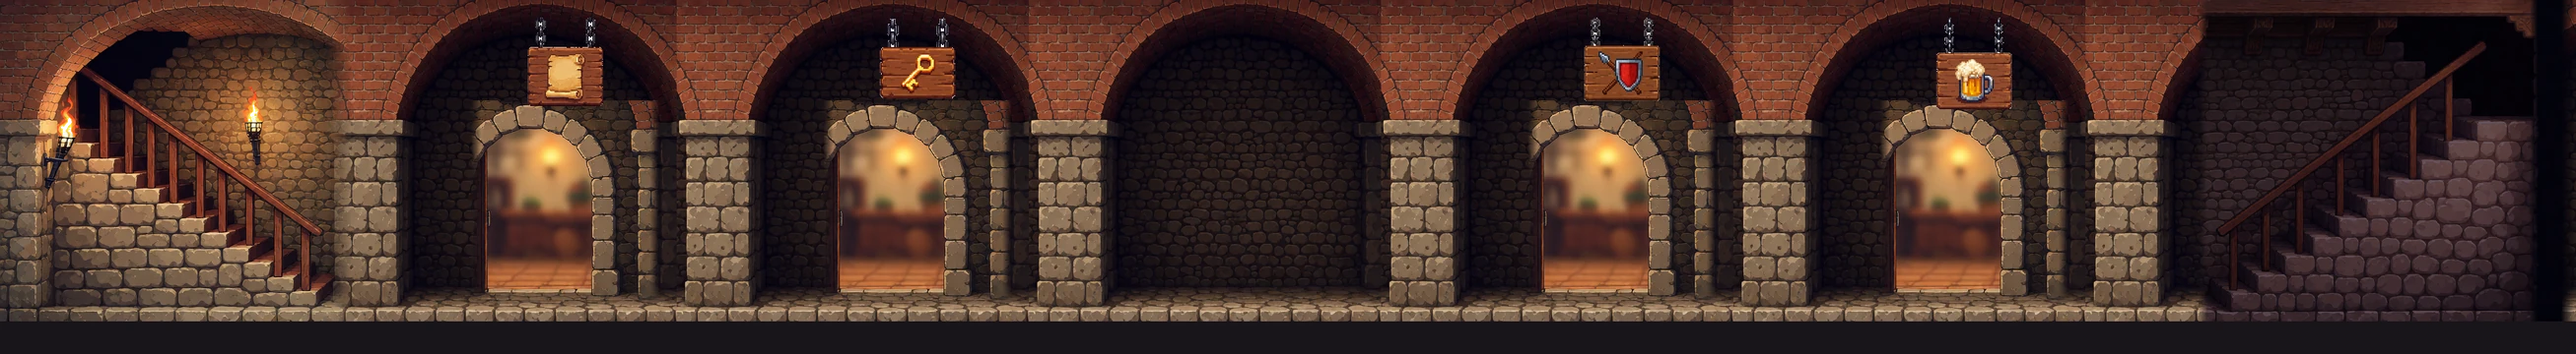
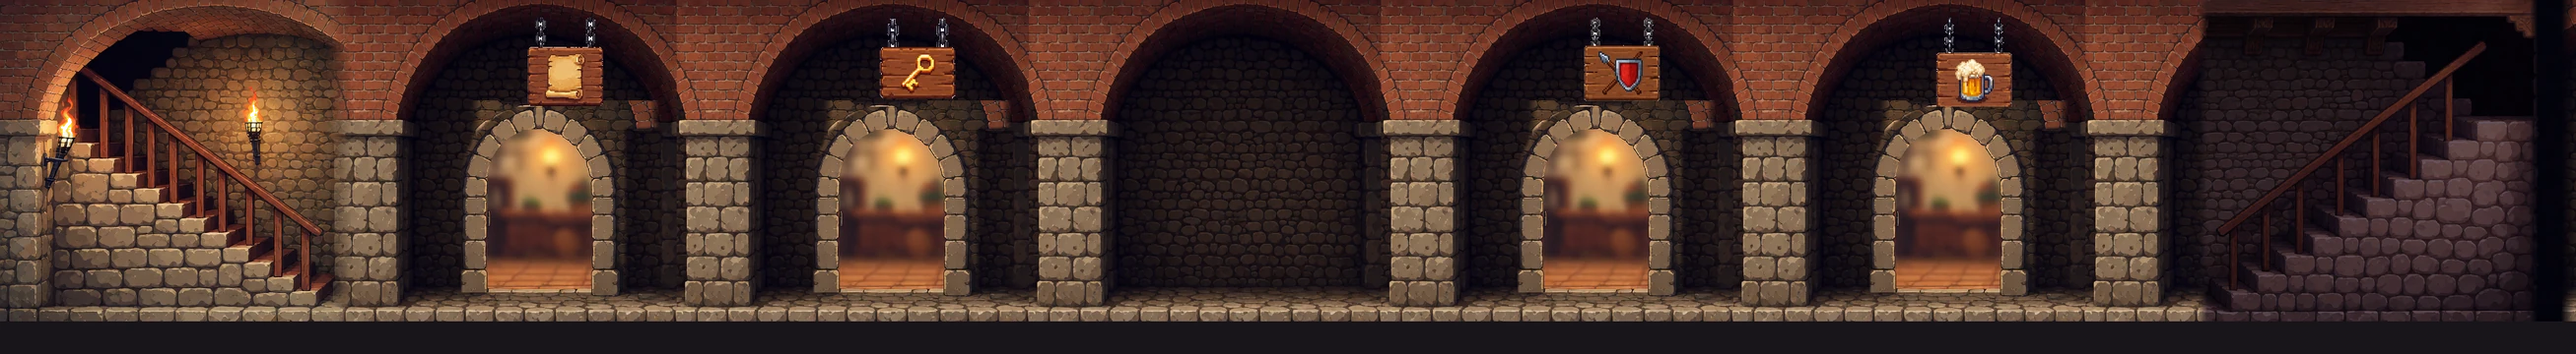
Night Watch: Sogni-painted boarded archway; cellar doorways get both jambs
Claude-Session: https://claude.ai/code/session_01JTmPYBVW2aVCQqTmNfy428

diff --git a/game/js/watch-art-castle.js b/game/js/watch-art-castle.js
@@ -61,10 +61,10 @@ window.WATCH_ART_CASTLE = {
      "block": {
       "img": "assets/img/watch/floors/stair-block-down.webp",
       "box": [
-       60,
-       179,
-       149,
-       304
+       34,
+       227,
+       184,
+       333
       ]
      }
     },
@@ -112,10 +112,10 @@ window.WATCH_ART_CASTLE = {
      "block": {
       "img": "assets/img/watch/floors/stair-block-down.webp",
       "box": [
-       2454,
-       179,
-       2555,
-       304
+       2429,
+       227,
+       2579,
+       333
       ]
      }
     }
@@ -280,10 +280,10 @@ window.WATCH_ART_CASTLE = {
      "block": {
       "img": "assets/img/watch/floors/stair-block-down.webp",
       "box": [
-       60,
-       179,
-       149,
-       304
+       34,
+       227,
+       184,
+       333
       ]
      }
     },
@@ -314,10 +314,10 @@ window.WATCH_ART_CASTLE = {
      "block": {
       "img": "assets/img/watch/floors/stair-block-down.webp",
       "box": [
-       2454,
-       179,
-       2555,
-       304
+       2429,
+       227,
+       2579,
+       333
       ]
      }
     },
@@ -404,10 +404,10 @@ window.WATCH_ART_CASTLE = {
      "block": {
       "img": "assets/img/watch/floors/stair-block-down.webp",
       "box": [
-       96,
-       130,
-       237,
-       304
+       61,
+       196,
+       271,
+       345
       ]
      }
     },
@@ -421,10 +421,10 @@ window.WATCH_ART_CASTLE = {
      "block": {
       "img": "assets/img/watch/floors/stair-block-down.webp",
       "box": [
-       2387,
-       130,
-       2528,
-       304
+       2352,
+       196,
+       2562,
+       345
       ]
      }
     }

diff --git a/game/tools/watch_art/castle/export_castle.py b/game/tools/watch_art/castle/export_castle.py
@@ -43,20 +43,24 @@ ROOM_FLOOR = {'cellars': ['archive', 'strongroom', 'barracks', 'tavern'], 'upper
 BAR = json.load(open(f'{src}/barricades/barricades.json'))
 def up(f, sid, span, use): return (span, 'up', BAR[f'{f}/{sid}'], use, f'{f}-{sid}')
 def dn(span, box, use): return (span, 'down', box, use, None)
-GL, GR = dn([60, 285], [94, 281, 233, 476], 163), dn([3811, 4036], [3845, 281, 4003, 476], 3924)
+# down: the boarded-up archway (block_down.py) placed around the arch centre cx at scale s (towers' archways are 1.4x)
+def abox(cx, s=1): return [round(cx - 118 * s), round(476 - 121 * s), round(cx + 117 * s), round(476 + 46 * s)]
+GL, GR = dn([60, 285], abox(172), 163), dn([3811, 4036], abox(3923), 3924)
 STAIRS = {
  'cellars': {'stair-left': up('cellars', 'stair-left', [60, 520], 470), 'east-cellar-stair': up('cellars', 'east-cellar-stair', [3496, 4036], 3626)},
  'ground':  {'stair-left': GL, 'west-mid-stair': up('ground', 'west-mid-stair', [60, 560], 480),
              'stair-right': up('ground', 'stair-right', [3420, 4030], 3500), 'east-cellar-stair': GR},
  'upper':   {'west-mid-stair': GL, 'back-stair': up('upper', 'back-stair', [60, 600], 470),
              'stair-right': GR, 'east-tower-stair': up('upper', 'east-tower-stair', [3496, 4036], 3626)},
- 'towers':  {'back-stair': dn([103, 418], [150, 204, 371, 476], 260), 'east-tower-stair': dn([3693, 4008], [3740, 204, 3961, 476], 3850)},
+ 'towers':  {'back-stair': dn([103, 418], abox(260, 1.4), 260), 'east-tower-stair': dn([3693, 4008], abox(3850, 1.4), 3850)},
 }
 LINKS = {f: {**{k: v[3] for k, v in st.items()}, **({'ladder': {'cellars': 1994, 'ground': 2005, 'upper': 2005, 'towers': 2000}[f]})} for f, st in STAIRS.items()}
 def block(name):
     a = np.asarray(Image.open(f'{src}/blocks/{name}.png').convert('RGBA')).copy()
-    white = a[..., :3].min(axis=2) > 232; a[white, 3] = 0
-    ys, xs = np.where(~white); im = Image.fromarray(a).crop((xs.min(), ys.min(), xs.max() + 1, ys.max() + 1))
+    if a[..., 3].min() == 255:                      # old white-background renders: key the white out and trim
+        white = a[..., :3].min(axis=2) > 232; a[white, 3] = 0
+        ys, xs = np.where(~white); im = Image.fromarray(a).crop((xs.min(), ys.min(), xs.max() + 1, ys.max() + 1))
+    else: im = Image.fromarray(a)                   # cut-outs with their own alpha fill their box exactly
     webp(im, f'{A}floors/stair-block-{name.split("-")[1]}.webp')
 block('block-down')
 for k in BAR:

diff --git a/game/tools/watch_art/castle/cellar_doors.py b/game/tools/watch_art/castle/cellar_doors.py
@@ -1,0 +1,33 @@
+# Cellar room doorways (Ladi, Nov 19): the doorway tile had no stone jamb on its left and a narrow stray strip of stone
+# to its right. Rebuild the left side of the arch ring as a mirror of the right (stones only, the room inside is kept)
+# and fill the stray strip with the dark wall beside it. All four doorways are the same tile, so fix one, paste four.
+# usage: python3 cellar_doors.py <cellars.png in> <out>
+import sys, numpy as np
+from PIL import Image
+src, out = sys.argv[1:3]
+F = np.asarray(Image.open(src).convert('RGB')).astype(float)
+X0, Y0 = 640, 52                       # tile window (archive doorway), 512x512
+T = F[Y0:Y0 + 512, X0:X0 + 512].copy(); N = T.copy()
+c, r, sp, w, sill = 217, 83, 235, 40, 413   # arch centre x, inner radius, spring line y, ring width, sill y (tile px)
+yy, xx = np.mgrid[0:512, 0:512]
+def inner(x, y): return np.where(y >= sp, np.abs(x - c) < r, np.hypot(x - c, y - sp) < r)
+def ring_d(x, y): return np.where(y >= sp, np.abs(x - c), np.hypot(x - c, y - sp))   # distance from the arch axis
+# left half: take the mirrored pixel wherever the mirror is ring stone (not the room) and inside the ring's outer edge
+mx = 2 * c - xx
+d = ring_d(xx, yy)
+a = np.clip((r + w + 4 - d) / 6, 0, 1) * (~inner(xx, yy)) * (xx < c) * (yy <= sill) * ~((yy < 118) & (xx > 192))
+a = a * (mx < 512)
+src_px = T[yy, np.clip(mx, 0, 511)]
+N = N * (1 - a[..., None]) + src_px * a[..., None]
+# stray strip right of the doorway: dark wall copied from the wall left of the doorway, same rows, feathered
+x1, x2, y1, y2, f = 352, 414, 150, 416, 6
+wall = T[:, 30:30 + (x2 - x1)]
+m = np.ones((512, x2 - x1)); m[:y1] = 0; m[y2:] = 0
+for i in range(f): m[:, i] *= (i + 1) / (f + 1); m[:, -1 - i] *= (i + 1) / (f + 1)
+for i in range(f): m[y1 + i] *= (i + 1) / (f + 1)
+N[:, x1:x2] = N[:, x1:x2] * (1 - m[..., None]) + wall * m[..., None]
+for dx in (0, 560, 1680, 2240):        # archive, strongroom, barracks, tavern doorways
+    # paste only the doorway band (keeps each bay's own sign above it)
+    band = (slice(Y0 + 118, Y0 + 512), slice(X0 + dx + 80, X0 + dx + 420))
+    F[band] = N[118:512, 80:420]
+Image.fromarray(F.clip(0, 255).astype(np.uint8)).save(out)

diff --git a/game/tools/watch_art/castle/block_down.py b/game/tools/watch_art/castle/block_down.py
@@ -1,0 +1,23 @@
+# Locked archway overlay (Ladi, Nov 19): Sogni boarded up the ground floor's right archway in place (krea2 identity edit,
+# seed 2102, of a 512x512 crop at native x 3584, y 52). Cut the boarding out by where the edit differs from the
+# original, close small gaps, feather, and save it as an RGBA overlay. The box is native px around the arch centre
+# (cx 3923, sill 476): x -118..+117, y -121..+46; the engine scales it for the towers' larger archways.
+# usage: python3 block_down.py <ref.png> <edit.png> <out.png>
+import sys, numpy as np
+from PIL import Image, ImageFilter
+ref, edit, out = sys.argv[1:4]
+X0, Y0, CX, SILL = 3584, 52, 3923, 476
+L, T, R, B = CX - 118 - X0, SILL - 121 - Y0, CX + 117 - X0, SILL + 46 - Y0
+r = np.asarray(Image.open(ref).convert('RGB')).astype(int)
+E = Image.open(edit).convert('RGB').resize((512, 512), Image.LANCZOS); e = np.asarray(E)
+m = Image.fromarray(((np.abs(r - e.astype(int)).sum(2) > 60) * 255).astype(np.uint8))
+m = m.filter(ImageFilter.MinFilter(3)).filter(ImageFilter.MaxFilter(5)).filter(ImageFilter.MinFilter(3))   # denoise, small gaps
+mm = np.asarray(m).copy(); yy, xx = np.mgrid[0:512, 0:512]
+mm[(np.abs(xx + X0 - CX) < 74) & (yy + Y0 > 352) & (yy + Y0 < SILL)] = 255   # inside the arch: the whole boarded opening
+m = Image.fromarray(mm)
+m = m.filter(ImageFilter.GaussianBlur(1))
+a = np.dstack([e, np.asarray(m)])[T:B, L:R].copy()
+for i in range(6):                         # fade the box edges so nothing ends in a hard line
+    k = int(255 * (i + 1) / 7)
+    for sl in (a[:, i], a[:, -1 - i], a[i], a[-1 - i]): sl[..., 3] = np.minimum(sl[..., 3], k)
+Image.fromarray(a).save(out)

diff --git a/game/CREDITS.md b/game/CREDITS.md
@@ -139,7 +139,7 @@ Everything else is drawn in code: portraits for characters without a painted one
 | The Night Watch's stacked town (`assets/img/watch/town`, and the per-level crops `assets/img/watch/levels/*/street.webp`): the West Road, Hill Road, Main Street and Far Lane on one hillside, each road above the next, joined by sloped paths and the chute | Laid out by `tools/watch_art/town.py` on 2026-11-18 from the Sogni buildings, trees and bushes credited above, plus a hillside soil tile and a stone retaining-wall tile generated for this game with [Sogni](https://www.sogni.ai) on 2026-11-18 with Krea 2 Turbo (`krea2_turbo_fp8_scaled`) on Ladi's Sogni Unlimited plan; roads, ramps, fences, the chute and the dock's plank walkway and river drawn in code. The backdrop behind the terraces (`town/back.webp`) reuses the hazed rooftop rows from the first set of level layers, raised to the top of the hill, over a hazed hillside of the same trees and bushes. Since 2026-11-18 the roads sit 125 px apart with a solid earth bank between them, each road's buildings are a layer of their own (`town/bld-*.webp`), and a blurred, see-through copy of each (`town/bld-*-soft.webp`) is made in code. The plain below the hazed rooftops is filled with distant villages and farmland (`town/back.webp`), or in the variants `town/back-forest.webp` and `town/back-mix.webp` with forest, rocky terrain and lakes (with a few villages in the mix), each from three panoramas generated for this game with Google's Gemini image generation (Gemini 3.1 Flash Image) on 2026-11-18 (`tools/watch_art/villages`, `forest` and `mix`, made by `tools/watch_art/gem.py`), cropped, hazed and cross-faded in code | Generated for this game with Sogni and Gemini; used under each service's terms for generated output | The Night Watch's town (`js/watch-art.js`) |
 | The Night Watch's castle floors (`assets/img/watch/floors/*/wall.webp`): the towers, upper floor, ground floor and cellars, each one long wall with its stairs at both ends and its rooms furnished at a person's scale | Generated for this game with [Sogni](https://www.sogni.ai) on 2026-11-18 on Ladi's Sogni Unlimited plan: each floor drawn empty as one wall with Krea 2 Turbo (`krea2_turbo_fp8_scaled`), then furnished in place with Krea 2 Identity Edit (`krea2_identity_edit_v1_2`) using the empty room for scale; windows and doorways keyed out by `tools/watch_art/floors2.py`. The cellar bunk that blocked a doorway removed with one more Krea 2 Identity Edit; the ground floor's window sills, the solid end walls, the opened bridge doorway and the hoist shaft on the left drawn in code by the same script | Generated for this game; used under Sogni's terms for generated output | The Night Watch's castle (`js/watch-art.js`) |
 | The Night Watch's dialogue portraits (`assets/img/watch/portraits/*.webp`): Seo-yeon, Mira, Kai, Dutch, Postmaster Coo, Bru, Kagemaru, Lexi, Grandma Wen, Ayo, Aigerim, Chad, Sir Seymour Backups, Old Hobb, Sergeant Pell, Tess, Doug, Hollis, Odu, Fennel, the Captain and the Hooded Stranger | Generated for this game with [Sogni](https://www.sogni.ai) on 2026-11-18 with Krea 2 Identity Edit (`krea2_identity_edit_v1_2`) on Ladi's Sogni Unlimited plan, each turned into a head-and-shoulders bust from that character's side-view render in `assets/img/watch/people` (and, where one exists, their portrait in `assets/img/portraits` as a second reference); one of two takes picked, cropped and converted to WebP; Seymour's closed visor edited the same way, and Kagemaru's wrists recoloured black in code. Chad's portrait (a young first-year MBA in a navy quarter zip) drawn fresh from a text prompt with Krea 2 Turbo (`krea2_turbo_fp8_scaled`), one of six takes picked. Prompts in `tools/watch_art/jobs/jobs-portrait.json` | Generated for this game; used under Sogni's terms for generated output | The Night Watch's dialogue box |
-| The Night Watch's HD castle floors (`assets/img/watch/floors/{ground,cellars,upper,towers}/wall-v2.webp`): the ground floor (gatehouse, great hall with its fireplace, post room), the brick-vaulted cellars, the upper floor and the tower top, painted 4096x512 (masters kept in the project files) and scaled to 2614x360 for the game, with stairs, a floor trapdoor and archway doorways with picture signs | Generated for this game with [Sogni](https://www.sogni.ai) on 2026-11-18 and 2026-11-19 on Ladi's Sogni Unlimited plan: an empty HD hall drawn with Krea 2 Turbo (`krea2_turbo_fp8_scaled`), then built up one feature per edit with Krea 2 Identity Edit (`krea2_identity_edit_v1_2`) in 2048-wide windows pasted back with feathered edges (`tools/watch_art/castle/winedit.py`); the eight doorway signs drawn with Krea 2 Turbo on white and cut out. The cellars were rebuilt in code from one clean vault bay of the Sogni render, and missing doorways were copied from another doorway on the same floor (`tools/watch_art/castle/cellars_tiles.py`, `compose2.py`, `towers_fix.py`; the towers' stair down was moved to the left end the same way in `towers_stair_left.py`). Every floor end's stairs (Ladi, Nov 19) are assembled by `tools/watch_art/castle/stairs_both.py` from the upper floor's Sogni stair and a Sogni archway (made symmetric, its inside darkened and a stair cut through the floor below it drawn from the wall's own stone, `arch2.py`); the boarded-arch overlay (`assets/img/watch/floors/stair-block-down.webp`) drawn with Krea 2 Turbo on white and cut out, and the barricades on the rising stairs (`assets/img/watch/floors/<floor>/block-<stair>.webp`) drawn in code along each stair's slope (`stair_barricades.py`). Windows keyed to transparent by `tools/watch_art/castle/export_castle.py` | Generated for this game; used under Sogni's terms for generated output | The Night Watch's castle floors (`js/watch-art-castle.js`, `WATCH_ART_CASTLE`) |
+| The Night Watch's HD castle floors (`assets/img/watch/floors/{ground,cellars,upper,towers}/wall-v2.webp`): the ground floor (gatehouse, great hall with its fireplace, post room), the brick-vaulted cellars, the upper floor and the tower top, painted 4096x512 (masters kept in the project files) and scaled to 2614x360 for the game, with stairs, a floor trapdoor and archway doorways with picture signs | Generated for this game with [Sogni](https://www.sogni.ai) on 2026-11-18 and 2026-11-19 on Ladi's Sogni Unlimited plan: an empty HD hall drawn with Krea 2 Turbo (`krea2_turbo_fp8_scaled`), then built up one feature per edit with Krea 2 Identity Edit (`krea2_identity_edit_v1_2`) in 2048-wide windows pasted back with feathered edges (`tools/watch_art/castle/winedit.py`); the eight doorway signs drawn with Krea 2 Turbo on white and cut out. The cellars were rebuilt in code from one clean vault bay of the Sogni render, and missing doorways were copied from another doorway on the same floor (`tools/watch_art/castle/cellars_tiles.py`, `compose2.py`, `towers_fix.py`; the cellar doorways were given a left stone jamb mirrored from the right one and a stray strip of stone beside them replaced with wall in `cellar_doors.py`; the towers' stair down was moved to the left end the same way in `towers_stair_left.py`). Every floor end's stairs (Ladi, Nov 19) are assembled by `tools/watch_art/castle/stairs_both.py` from the upper floor's Sogni stair and a Sogni archway (made symmetric, its inside darkened and a stair cut through the floor below it drawn from the wall's own stone, `arch2.py`); the boarded-arch overlay (`assets/img/watch/floors/stair-block-down.webp`) painted in place by a Krea 2 Identity Edit of the ground floor's right archway (seed 2102) and cut out where the edit changed it (`block_down.py`), and the barricades on the rising stairs (`assets/img/watch/floors/<floor>/block-<stair>.webp`) drawn in code along each stair's slope (`stair_barricades.py`). Windows keyed to transparent by `tools/watch_art/castle/export_castle.py` | Generated for this game; used under Sogni's terms for generated output | The Night Watch's castle floors (`js/watch-art-castle.js`, `WATCH_ART_CASTLE`) |
 | The Night Watch's room popups (`assets/img/watch/rooms/*.webp`): the archive, strongroom, barracks, tavern, wardrobe, ledger room, bridge tower, watchtower, lookout and captain's quarters, each painted around the object a breach is fixed on | Generated for this game with [Sogni](https://www.sogni.ai) on 2026-11-19 with Krea 2 Turbo (`krea2_turbo_fp8_scaled`) on Ladi's Sogni Unlimited plan, from the prompts in `tools/watch_art/castle/rooms.py` (one take each); trimmed and resized to 1600x900 and converted to WebP by `tools/watch_art/castle/export_castle.py` | Generated for this game; used under Sogni's terms for generated output | The Night Watch's room popups (`js/watch-art-castle.js`, `WATCH_ART_CASTLE`) |
 | The Night Watch bridge's walkway (`assets/img/watch/floors/bridge/street.webp` deck and back parapet, `deck-front.webp`) | Drawn in code for this game on 2026-11-19 by `tools/watch_art/castle/bridge_deck.py` from the bridge's own Sogni-generated stone (see the parallax layers line above): flagstone deck rows and a low back parapet behind the existing bridge, and the front crenellations split into their own layer that draws over the walker's feet | Generated for this game; used under Sogni's terms for generated output | The Night Watch's bridge (`js/watch-art.js`) |
 
